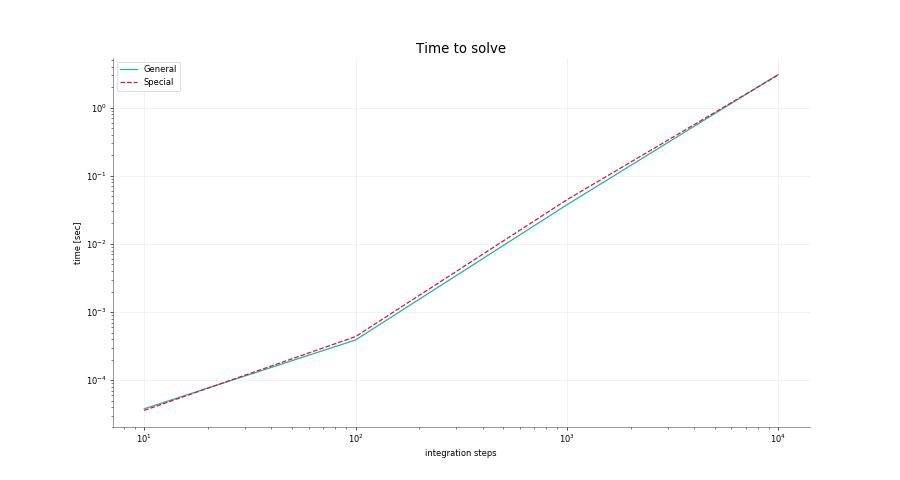
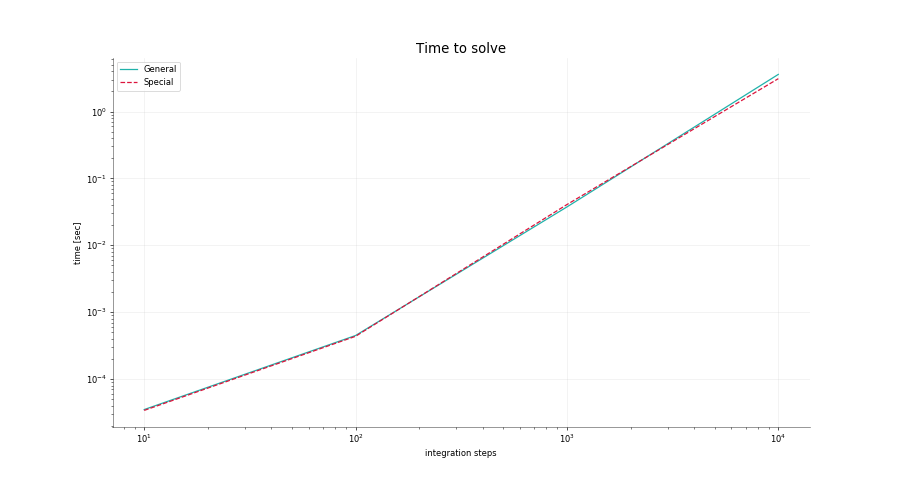
Working solve and changed to choose n when visualizing.

diff --git a/Project1/algo.cpp b/Project1/algo.cpp
@@ -60,15 +60,15 @@ void DiffSolver::Solve(bool useSpecial){
   clock_t start, finish, finish2; // declare start and final time
   start = clock();
 
-
   for(int i = 2; i < n; i++){
-      if (useSpecial){
-        b[i] = b[i] - 1/b[i-1];
-      }
-      else{
-        b[i] = b[i] - a[i-1]*c[i-1]/b[i-1];
-      }
+    if (useSpecial){
+      b[i] = (i+1.0)/i;
+      g[i] = g[i] + g[i-1]/b[i-1];
+    }
+    else{
+      b[i] = b[i] - a[i-1]*c[i-1]/b[i-1];
       g[i] = g[i] - a[i-1]*g[i-1]/b[i-1];
+    }
   }
 
   u[0] = 0; //boundry condition
@@ -77,8 +77,13 @@ void DiffSolver::Solve(bool useSpecial){
 
   int i = n - 2;
   while (i>0){
-      u[i] = (g[i] - c[i]*u[i+1])/b[i];
-      i -= 1;
+    if (useSpecial){
+      u[i] = (g[i] + u[i+1])/b[i]; //3FLOPSx(n-2)
+    }
+    else{
+      u[i] = (g[i] - c[i]*u[i+1])/b[i]; //3FLOPSx(n-2)
+    }
+    i -= 1;
 
 
   //Fill array with log of relative error:
@@ -92,12 +97,10 @@ void DiffSolver::Solve(bool useSpecial){
 
   finish = clock();
   solvetime = ( (finish - start)/(double)CLOCKS_PER_SEC );
-  cout <<"Time to solve: (s): "<<( (finish - start)/(double)CLOCKS_PER_SEC ) << endl;
+  //cout <<"Time to solve: (s): "<<( (finish - start)/(double)CLOCKS_PER_SEC ) << endl;
 
-  finish2 = clock();
-  //Delete unneccesary vectors: a, b, c, g
+  //Delete unneccesary arrays: a, b, c, g
   delete [] a; delete [] b; delete [] c; delete [] g;
-  cout <<"Time with delete (s): "<< ( (finish2 - start)/(double)CLOCKS_PER_SEC ) << endl;
 }
 
 void DiffSolver::PrintError(){
@@ -138,7 +141,7 @@ void DiffSolver::SolveLU(double a_val, double b_val, double c_val){
   mat A = zeros<mat>(n,n);
   // Set up arrays for the simple case
   vec g(n);  vec x(n); //Ax=g
-  cout <<h<< endl;
+  //cout <<h<< endl;
   A(0,0) = b_val;  A(0,1) = c_val;  x(0) = h;  g(0) =  h_sq*f(x(0));
   x(n-1) = x(0)+(n-1)*h; g(n-1) = h_sq*f(x(n-1));
   for (int i = 1; i < n-1; i++){

diff --git a/Project1/visualize.py b/Project1/visualize.py
@@ -3,7 +3,9 @@
 import pandas as pd
 import numpy as np
 import matplotlib.pyplot as plt
-n = 10
+
+n_choice = input("Choose a n values to visualize: (10,10e1, 10e2, 10e3)\n")
+n = int(n_choice)
 
 df = pd.read_csv(f"Results nval = {n}", names = ['x','solution', 'exact', 'log error'])
 
@@ -24,22 +26,22 @@ plt.gca().spines["top"].set_alpha(0.0)
 plt.gca().spines["bottom"].set_alpha(0.6)
 plt.gca().spines["right"].set_alpha(0.0)
 plt.gca().spines["left"].set_alpha(0.6)
-#plt.savefig(f"Computed vs Exact sol n: {n}", dpi = 60)
+plt.savefig(f"Computed vs Exact sol n: {n}", dpi = 60)
 plt.show()
 
 
 #Make plot for time
 dfTG = pd.read_csv("CPUtime general", names = ['n','time'])
 dfTS= pd.read_csv("CPUtime special", names = ['n','time'])
-print(dfTG["time"])
+#print(dfTG["time"])
 n = dfTG['n'].to_numpy()
 timeG = dfTG['time'].to_numpy()
 timeS = dfTS['time'].to_numpy()
 
 
 plt.figure(figsize = (15, 8), dpi = 80)
-plt.loglog(n, timeG, label = "General", color = "lightseagreen")
-plt.loglog(n, timeS, linestyle = "dashed", label = "Special", color = "crimson")
+plt.plot(n, timeG, label = "General", color = "lightseagreen")
+plt.plot(n, timeS, linestyle = "dashed", label = "Special", color = "crimson")
 plt.title("Time to solve", fontsize = 16)
 plt.grid(axis='both', alpha=.22)
 plt.xlabel("integration steps")
@@ -57,16 +59,11 @@ plt.show()
 
 
 
-
+#Include this if want a Latex formatted table of time assuming the files
+# CPUtime* files exists.
+"""
 combinedTime = pd.concat([n, timeG, timeS], axis=1)
 headers = ["n", "General time[s]", "Special time[s]"]
 combinedTime.columns = headers
-#vertical_stack.style.format("{:.2%}")
-#print(vertical_stack)
 vertical_stack.to_latex(index = False)
-"""
-ax.axis("off")
-pd.plotting.table(ax, vertical_stack, loc="upper right", colWidths=[0.3, 0.3, 0.3])
-plt.savefig("Timetable.png")
-plt.show()
 """

diff --git a/Project1/main.cpp b/Project1/main.cpp
@@ -14,8 +14,12 @@ using namespace std;
 
 
 int main(int argc, char const *argv[]) {
-
+  // First choose to use special or general algorithm
+  // First half of writes the time to compute the algorith to text files
+  // Second uses armadillo solve function (which uses LU?)
+  // Can print out error and u(solution) before we write to file if we wanna check it for testing.
   bool useSpecial = false;
+  int n_max = 10e4;
   string filename = "CPUtime general";
   if(useSpecial){
     filename = "CPUtime special";
@@ -23,16 +27,17 @@ int main(int argc, char const *argv[]) {
   ofstream outfile;
   outfile.open(filename);
 
-  for(int n=10; n<=10; n*= 10){
+  for(int n=10; n<=n_max; n*= 10){
     DiffSolver dSolv;
     dSolv.Initialize(-1.0, 2.0, -1.0, n,  0.0, 1.0); // a, b, c, n, x0, xn
     dSolv.Solve(useSpecial);
     dSolv.WritetoFile();
     //dSolv.PrintError();
     //dSolv.Printtest();
-    //cout << dSolv.solvetime << endl;
-    //outfile << setprecision(6) << scientific;
-    //outfile << n << ", " << dSolv.solvetime << endl;
+    outfile << setprecision(6) << scientific;
+    outfile << n << ", " << dSolv.solvetime << endl;
+
+    cout << "Finished for n: " << n << endl;
 
   }
   outfile.close();
